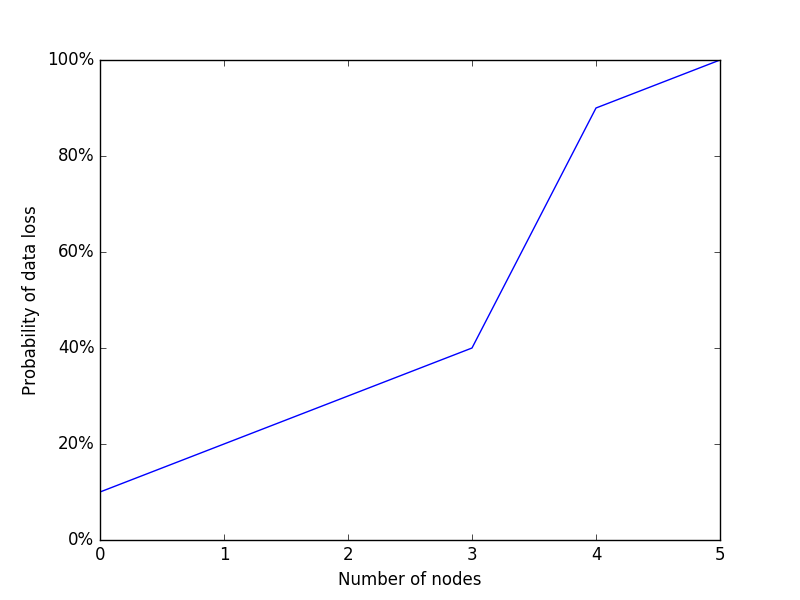
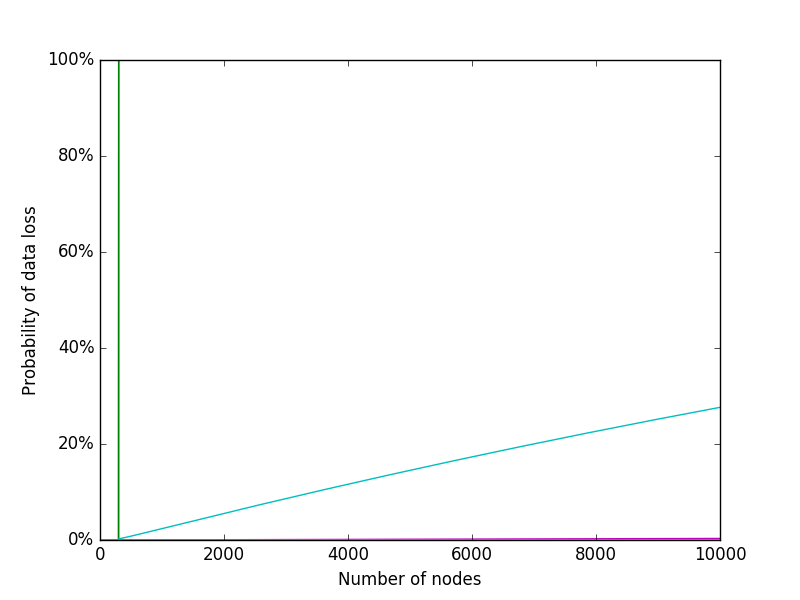
Added new figure

diff --git a/Main.py b/Main.py
@@ -71,7 +71,9 @@ def generateFigure6(schemeNames, data):
    # TODO: use the scheme names to generate the figure key in correct order
 
    # add data
-   plt.plot([0.1, 0.2, 0.3, 0.4, 0.9, 1.0])
+   for key, schemeName in schemeNames:
+      x, y = zip(*data[key])
+      plt.plot(x, y)
 
    # set x-axis
    plt.xlabel('Number of nodes')
